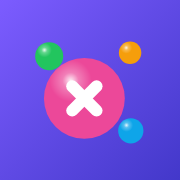
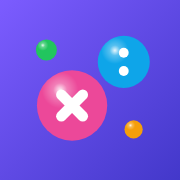
Vydání v3: ikona s × i dvojtečkou, verze cache, dokumentace
- ikona: růžová bublina s × a modrá s dvojtečkou (dělení jako ve
  škole), vše uvnitř kruhového výřezu, PNG přegenerované
- manifest a popis stránky: násobení a dělení
- sw.js: CACHE_VERSION v3
- README a CLAUDE.md: 231 příkladů, dělení za násobením, nové konstanty

Claude-Session: https://claude.ai/code/session_01ViUSVQRAhzFjnMNo2kVxcT

Changed region(s): [[0.1944, 0.1944, 0.8333, 0.8056]]

diff --git a/index.html b/index.html
@@ -4,7 +4,7 @@
   <meta charset="utf-8">
   <meta name="viewport" content="width=device-width, initial-scale=1, viewport-fit=cover">
   <title>Malá násobilka</title>
-  <meta name="description" content="Hra na procvičování malé násobilky.">
+  <meta name="description" content="Hra na procvičování malé násobilky: násobení a dělení.">
   <meta name="color-scheme" content="light dark">
   <meta name="theme-color" content="#f4f1ff" media="(prefers-color-scheme: light)">
   <meta name="theme-color" content="#14121f" media="(prefers-color-scheme: dark)">

diff --git a/sw.js b/sw.js
@@ -2,7 +2,7 @@
 // PRAVIDLO: každá změna, která jde do vydání, zvýší CACHE_VERSION.
 // Každý nový soubor appky patří do ASSETS (hlídá to tests/sw.test.mjs).
 
-const CACHE_VERSION = 'v2';
+const CACHE_VERSION = 'v3';
 const CACHE_PREFIX = 'mala-nasobilka-';
 const CACHE = CACHE_PREFIX + CACHE_VERSION;
 

diff --git a/CLAUDE.md b/CLAUDE.md
@@ -1,6 +1,7 @@
 # Malá násobilka
 
-Statická PWA na procvičování malé násobilky (0–10 × 0–10, 121 příkladů) pro děti kolem 10 let.
+Statická PWA na procvičování malé násobilky pro děti kolem 10 let: násobení 0–10 × 0–10
+(121 příkladů) a dělení z malé násobilky (110 příkladů, znak „:“ jako ve škole), celkem 231.
 Běží na iPhonu přidaná na plochu, hostovaná na Vercelu bez build kroku.
 Data jsou jen v localStorage zařízení, žádný server.
 
@@ -43,8 +44,11 @@ Data jsou jen v localStorage zařízení, žádný server.
 - iPhone: dotykové plochy aspoň 48 px, `env(safe-area-inset-*)`, světlý i tmavý režim,
   input s písmem aspoň 16 px (jinak iOS zoomuje).
 - Status bar na iPhonu je `default` (sám se přizpůsobí světlému a tmavému režimu).
-- Konstanty učení (časy, intervaly, `ZERO_PER_ROUND`) jsou jen v `js/learning.js`.
+- Konstanty učení (časy, intervaly, `ZERO_PER_ROUND`, `DIV_UNLOCK`, `NEW_DIV_PER_ROUND`)
+  jsou jen v `js/learning.js`.
   Násobení nulou je jedno pravidlo: v kole nanejvýš `ZERO_PER_ROUND` příkladů s nulou.
+  Dělení stojí na násobení: nové dělení až za násobením, které aspoň „učí se“.
+- Dělí se jen čísly 1–10, dělení nulou appka nikdy nenabídne.
 - Čistá logika (`js/storage.js`, `js/facts.js`, `js/learning.js`, `js/distractors.js`,
   `js/round.js`, `js/progress.js`) nesahá na DOM a dostává `now` a `rng` parametrem.
 
@@ -57,7 +61,7 @@ vercel.json             hlavičky pro Vercel
 css/app.css             vzhled, světlý a tmavý režim, bubliny
 js/main.js              start, service worker, přepínání obrazovek
 js/storage.js           načtení, uložení, migrate(), export a import
-js/facts.js             121 příkladů jako klíče "7x8" (7 × 8 a 8 × 7 jsou různé)
+js/facts.js             příklady: násobení "7x8", dělení "56:8" (každý směr zvlášť)
 js/learning.js          spaced repetition, výběr příkladů do kola
 js/distractors.js       špatné možnosti podle typických omylů
 js/round.js             stav jednoho kola (20 příkladů)

diff --git a/README.md b/README.md
@@ -1,7 +1,7 @@
 # Malá násobilka
 
-Hra na procvičování malé násobilky pro děti kolem 10 let. Funguje jako aplikace na iPhonu
-(přidaná na plochu) i offline.
+Hra na procvičování malé násobilky (násobení i dělení) pro děti kolem 10 let. Funguje jako
+aplikace na iPhonu (přidaná na plochu) i offline.
 
 ## Jak se hraje
 - Nahoře je příklad, pod ním 4 barevné bubliny s výsledky.
@@ -10,13 +10,20 @@ Hra na procvičování malé násobilky pro děti kolem 10 let. Funguje jako apl
 - Na konci kola appka ukáže, co se zlepšilo a co ještě procvičit.
 
 ## Jak se učí
-- Příklady 0–10 × 0–10, celkem 121.
-- Každý příklad se sleduje zvlášť, i podle pořadí: 7 × 8 a 8 × 7 jsou dva různé příklady.
+- Násobení 0–10 × 0–10 (121 příkladů) a dělení z malé násobilky (110 příkladů, např. 56 : 8,
+  dělitel 1–10, nulou se nedělí). Celkem 231.
+- Každý příklad se sleduje zvlášť, i podle pořadí: 7 × 8 a 8 × 7 jsou dva různé příklady,
+  stejně jako 56 : 8 a 56 : 7.
+- Násobení a dělení se v kole náhodně střídá. Nové dělení přijde, až když odpovídající
+  násobení aspoň trochu jde, a po chybě appka připomene: „Pomůže násobení: 7 × 8 = 56.“
 - Co nejde, přichází častěji. Co jde rychle, vrací se s rostoucími odstupy
   (spaced repetition), aby se nezapomnělo.
 - Násobení nulou je jedno pravidlo, proto v kole nanejvýš 2 příklady s nulou.
-  Po odpovědi appka připomene: „Krát nula je vždycky nula.“
-- Rodiče vidí v sekci Pro rodiče tabulku 0–10 (11 × 11), nejtěžší příklady a statistiky.
+  Po odpovědi appka připomene: „Krát nula je vždycky nula.“ (u dělení „Nula děleno čímkoli
+  je nula.“)
+- Rodiče vidí v sekci Pro rodiče tabulku 0–10 pro násobení i dělení, celou rodinu příkladů
+  (7 × 8, 8 × 7, 56 : 8, 56 : 7), nejtěžší příklady a statistiky. V nastavení jde zvolit,
+  co se procvičuje: obojí (výchozí), jen násobení, nebo jen dělení.
 
 ## Instalace na iPhone
 1. Otevřít adresu appky v Safari.
